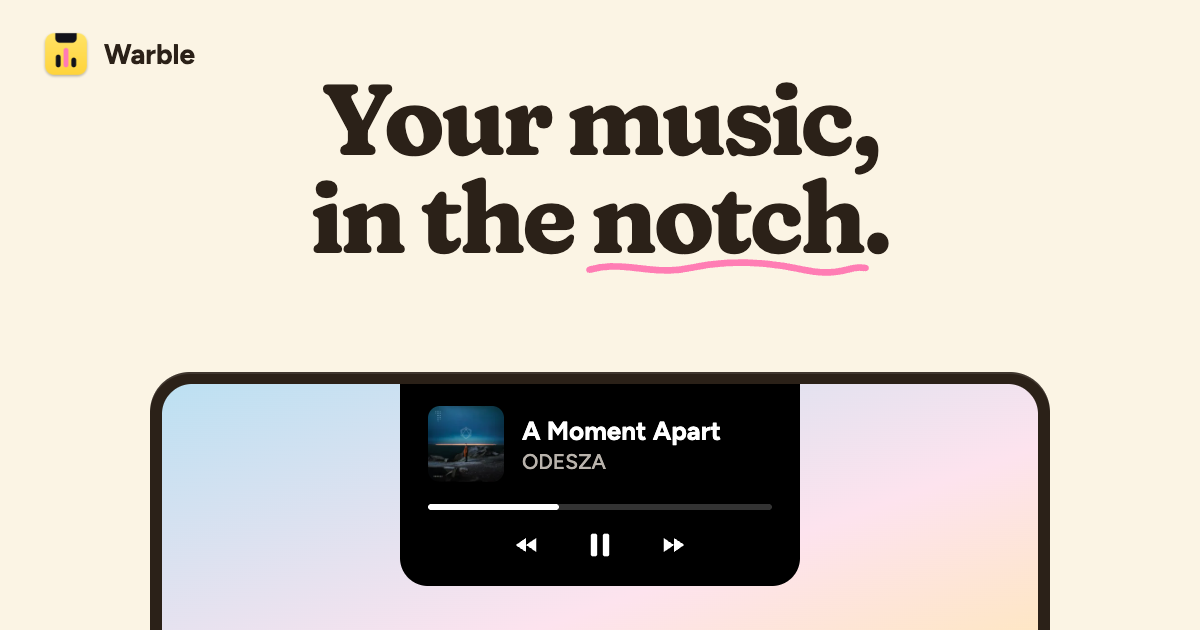
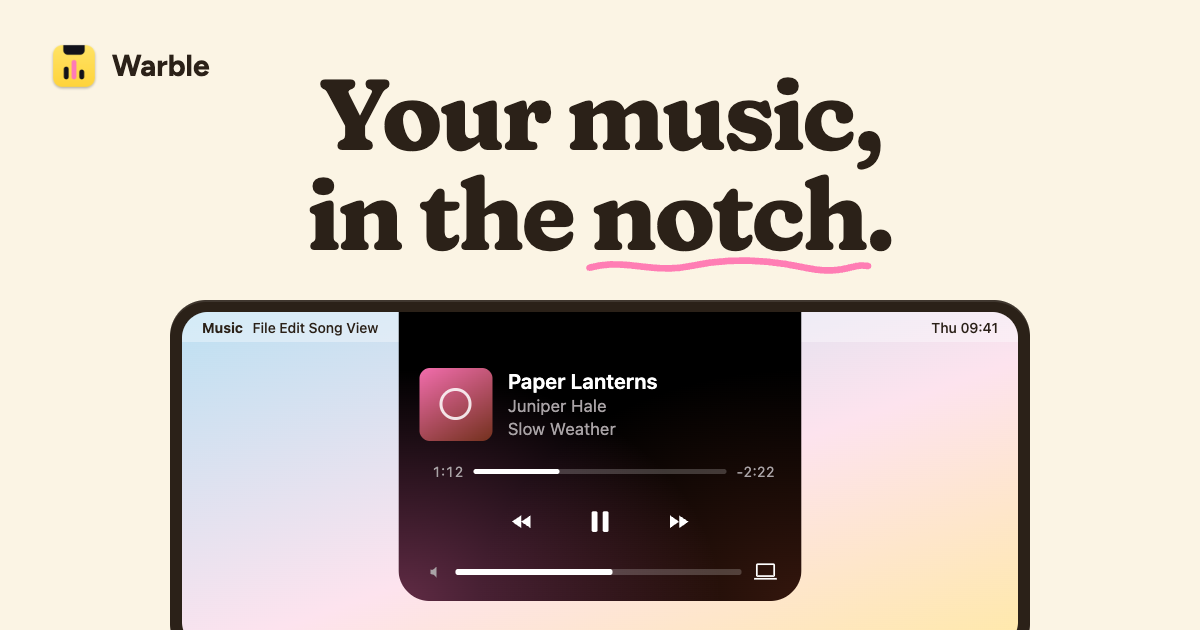
site: draw the social cards with a made-up song and a scene per page (#514)
Redraws the social cards so they show a made-up song, and gives each
page a card about that page.

## The song

The cards showed A Moment Apart by ODESZA with its real cover. They now
show Paper Lanterns by Juniper Hale, from the made-up tracks in
`docs/demo`. Its art is drawn in CSS from the same hue, gradient and
ring as `Tracks.swift`, so it matches the guide's screenshots and the
repo ships no one else's artwork. The open notch is drawn at the app's
sizes, as `NotchStill.astro` draws it, with the position bar and volume
row the app shows.

## The cards

- **Home (`og.png`):** the headline over a screen with the notch hanging
open, which now fits inside the card instead of being cut off at the
bottom.
- **Guide pages:** the title and the page's summary on the left, with a
scene for that page on the right:
  - resting notch with the pointer for Get started
  - the speaker list for Switch speakers
  - the right-click menu for More than one player
  - the drawn notch for External displays
  - Nothing playing for When nothing shows
  - the VoiceOver ring and an Esc key for Accessibility
- crops of `settings-notch.png` and `update-offer.png` for Settings and
Updates
  - the uninstall command for Remove Warble
- **Changelog, privacy and notch apps** have their own cards now,
instead of sharing the home card.

## Metadata

- The home card's alt text described the real song and is rewritten for
the new card. The three pages above pass their own card and alt text.
[…]

Changed region(s): [[0.1233, 0.1206, 0.8942, 1.0], [0.0308, 0.0302, 0.185, 0.1508]]

diff --git a/docs/architecture/website.md b/docs/architecture/website.md
@@ -2,4 +2,4 @@
 
 Read this before changing `site/` or the user guide. Back to the [architecture index](../../CLAUDE.md#architecture).
 
-`site/` is the Astro site for warble.lorcanchinnock.com, deployed by Cloudflare Workers Builds on every push to `main` (see `site/README.md` › Deploying), so it describes `main`, which can be ahead of the version people can install. The user guide lives in `site/src/guide/`, one Markdown file per page at `/docs/<slug>/`, in file name order. Each file's front matter gives its `title`, a one-line `summary` and its `group` (the groups are in `site/src/lib/guide-files.ts`). A guide page follows its board (#462): the header names the guide and holds the search (`GuideSearch.astro`, Pagefind's index, loaded on first use), which `/` focuses from anywhere and whose results drop down under it; on a phone it takes its own row. The sidebar marks each group with its colour (Get started yellow, Playback pink, Displays sky, Reference the secondary colour, Help an outline), and the page opens with its group and a read time at 200 words a minute (`GuidePage.minutes`). Numbered steps sit on yellow discs. Under On this page, on wide screens only, a black card with a notch links to the install command. Write pages as tasks, in second person: numbered steps, `<kbd>⌘⇧4</kbd>` for keys, and `> [!TIP]` or `> [!NOTE]` callouts. A screenshot of one of Warble's windows takes a title, `![alt](../../../docs/media/settings-notch.png "Caption")`, which puts it on a pastel panel with the title as its caption (`rehypeFigures` in `site/src/lib/guide.ts`). Capture the window at 2× with its transparent corners and no shadow (`screencapture -o -l<window id>`), since the panel draws the shadow and shows the image at half its pixel width. `/changelog/` draws `CHANGELOG.md` as a timeline from its board (#461). `site/src/lib/changelog.ts`, ported from Shot's, parses release-please's file as it is: each release's version and date, its entries as New (features), Fix (bug fixes), Faster or Changed, the commit scope as an area tag in words, and the PR number; `ChangelogRelease.astro` draws one release. The newest eight show, the rest wait behind Show older releases, and Everything, New and Fixes are radio buttons filtered with CSS `:has()`, so the page needs no script. The feed reads the same parser. The landing page's `#install` panel holds the install command, and `/notch-apps/` links to it, so keep that anchor. The steps to open a downloaded zip past Gatekeeper are the FAQ's `#gatekeeper` answer; the install panel links to it, and a short script opens a FAQ answer that a link targets. The command is `site/public/install.sh`, with `site/public/uninstall.sh` beside it, both served as plain text and tested by `make test-install test-uninstall`; keep the commands in the README, the landing page and the guide in line with them. release-please ignores `site/`. The site's look is Warble's own, not Shot's: warm and a little playful, with a cream page, cocoa text, the icon's yellow and pink, a soft serif (Fraunces) for headings, Figtree for text and DM Mono for commands and keys. The notch is the one pure-black thing, as in the app. Light and dark follow the system, and dark is the same palette at night. The fonts come from `@fontsource` packages and are served from the site itself, because the Content-Security-Policy allows only `'self'` and the site makes no third-party requests. The tokens are at the top of `site/src/styles/global.css`. The social card, `site/public/og.png`, is drawn in the same look by `npm run og` (`site/scripts/og.mjs`, which renders HTML with headless Chrome), so rerun it when the headline, the palette or the notch's look changes. It also draws one card per guide page into `site/public/og/<slug>.png`, from each page's title and group, so rerun it and commit the cards when a page is added or retitled; `Base.astro` takes an `image` for a page's own card. For search and sharing, the sitemap (`sitemap.xml.ts`) lists every page with a `lastmod` from git, which it leaves out in a shallow clone, the landing page carries `SoftwareApplication` JSON-LD, the 404 is `noindex` (it shows the empty notch's "Nothing playing" note in a `ScreenCrop`, with the home page as its one action), and `/changelog/rss.xml` turns the same releases into a feed. `/notch-apps/` says what Warble does and doesn't do next to other notch apps. Keep it to claims you can check, with no prices, and update it when Warble gains or drops a feature it mentions. The landing page's notch (`NotchDemo.astro`, with `scripts/notch-demo.ts`) is a working copy hanging from the screen crop (a black bezel, the menu bar and the pastel wallpaper, fading into the page): it opens once by itself a moment after it scrolls into view, then waits for a hover, with no labels or controls around it, only ticks while it is on screen, and does not tour with Reduce motion. It plays nine real songs, the first ODESZA's "A Moment Apart", with their covers in `site/public/media/art-*.webp` and the list in `scripts/notch-demo.ts`; previous, next, shuffle, repeat, the position bar and the volume slider work on them. It draws the housing, wings and open card at the app's own proportions (`NotchLayout`), so change it when they change. It shows only the rest and open states, with no empty state and no caption, so keep them in line with the app's. The landing page follows its board on the redesign canvas (#460): the hero with the command as its one action, the working notch, then four numbered chapters, See it, Hear it, Every Mac and Calm, each with the notch in one state hanging from a `ScreenCrop`. `NotchStill.astro` draws those still notches at the app's sizes: resting, open with or without the speaker list, the note, and the notch Warble draws on a display without one. Covers come from `site/public/media/art-*.webp`. After the chapters come a privacy band, a FAQ of `details` elements, and the yellow install panel with the resting notch hanging from its top edge. Only the footer's "LC_" mark and "Made by Lorcan Chinnock", the voice and the copy button carry over from Shot. The shared parts follow the redesign spec's Website polish values (#458). `Base.astro` draws the header (the icon, the name in Fraunces and a Beta badge, then Features, Guide, Changelog, FAQ and GitHub, with the current page on a soft pill) and, under 720 px, puts the links behind a Menu button, a `details` element so it needs no script. The footer has the name and licence, then Product, Help and Project columns, then the maker's mark. `Copy.astro` and the guide's one-line `sh` blocks share one command block: a cocoa bar (`--cmd`) with a yellow `$`, the command on one line that scrolls sideways rather than wrapping, and a cream Copy button as its only action. A grid that holds one needs a `minmax(0, 1fr)` column, or the command's width stretches the page on a phone. `.squig` puts the pink squiggle under one word per heading: with `.now` it draws in once after load, as the hero's does, and otherwise it draws as its heading scrolls into view. `.rise` fades a section up 24 px as it scrolls in. The scrolling ones use CSS scroll timelines. Give `animation-timeline` and `animation-range` a rule of their own, more specific than the one with the `animation` shorthand: in the same rule the minifier folds them into the shorthand, which can't hold them, and browsers drop it. None needs a script, and all are off under Reduce Motion.
+`site/` is the Astro site for warble.lorcanchinnock.com, deployed by Cloudflare Workers Builds on every push to `main` (see `site/README.md` › Deploying), so it describes `main`, which can be ahead of the version people can install. The user guide lives in `site/src/guide/`, one Markdown file per page at `/docs/<slug>/`, in file name order. Each file's front matter gives its `title`, a one-line `summary` and its `group` (the groups are in `site/src/lib/guide-files.ts`). A guide page follows its board (#462): the header names the guide and holds the search (`GuideSearch.astro`, Pagefind's index, loaded on first use), which `/` focuses from anywhere and whose results drop down under it; on a phone it takes its own row. The sidebar marks each group with its colour (Get started yellow, Playback pink, Displays sky, Reference the secondary colour, Help an outline), and the page opens with its group and a read time at 200 words a minute (`GuidePage.minutes`). Numbered steps sit on yellow discs. Under On this page, on wide screens only, a black card with a notch links to the install command. Write pages as tasks, in second person: numbered steps, `<kbd>⌘⇧4</kbd>` for keys, and `> [!TIP]` or `> [!NOTE]` callouts. A screenshot of one of Warble's windows takes a title, `![alt](../../../docs/media/settings-notch.png "Caption")`, which puts it on a pastel panel with the title as its caption (`rehypeFigures` in `site/src/lib/guide.ts`). Capture the window at 2× with its transparent corners and no shadow (`screencapture -o -l<window id>`), since the panel draws the shadow and shows the image at half its pixel width. `/changelog/` draws `CHANGELOG.md` as a timeline from its board (#461). `site/src/lib/changelog.ts`, ported from Shot's, parses release-please's file as it is: each release's version and date, its entries as New (features), Fix (bug fixes), Faster or Changed, the commit scope as an area tag in words, and the PR number; `ChangelogRelease.astro` draws one release. The newest eight show, the rest wait behind Show older releases, and Everything, New and Fixes are radio buttons filtered with CSS `:has()`, so the page needs no script. The feed reads the same parser. The landing page's `#install` panel holds the install command, and `/notch-apps/` links to it, so keep that anchor. The steps to open a downloaded zip past Gatekeeper are the FAQ's `#gatekeeper` answer; the install panel links to it, and a short script opens a FAQ answer that a link targets. The command is `site/public/install.sh`, with `site/public/uninstall.sh` beside it, both served as plain text and tested by `make test-install test-uninstall`; keep the commands in the README, the landing page and the guide in line with them. release-please ignores `site/`. The site's look is Warble's own, not Shot's: warm and a little playful, with a cream page, cocoa text, the icon's yellow and pink, a soft serif (Fraunces) for headings, Figtree for text and DM Mono for commands and keys. The notch is the one pure-black thing, as in the app. Light and dark follow the system, and dark is the same palette at night. The fonts come from `@fontsource` packages and are served from the site itself, because the Content-Security-Policy allows only `'self'` and the site makes no third-party requests. The tokens are at the top of `site/src/styles/global.css`. The social cards are drawn in the same look by `npm run og` (`site/scripts/og.mjs`, which renders HTML with headless Chrome). The home card, `site/public/og.png`, has the headline over the open notch. Each guide page's card, `site/public/og/<slug>.png`, has its title, group and summary beside a scene for that page from `scenes` in the script, which is either a notch drawn at the app's sizes or a crop of a screenshot in `docs/media`. The changelog, privacy and notch apps pages have cards there too. Every card shows Paper Lanterns by Juniper Hale, a made-up song from `docs/demo` whose art is drawn as `Tracks.swift` draws it, never a real song. Rerun the script and commit the cards when the headline, the palette or the notch's look changes, when a guide page is added, retitled or given a new summary, or when a screenshot a card crops changes. `Base.astro` takes an `image` and `imageAlt` for a page's own card. For search and sharing, the sitemap (`sitemap.xml.ts`) lists every page with a `lastmod` from git, which it leaves out in a shallow clone, the landing page carries `SoftwareApplication` JSON-LD, the 404 is `noindex` (it shows the empty notch's "Nothing playing" note in a `ScreenCrop`, with the home page as its one action), and `/changelog/rss.xml` turns the same releases into a feed. `/notch-apps/` says what Warble does and doesn't do next to other notch apps. Keep it to claims you can check, with no prices, and update it when Warble gains or drops a feature it mentions. The landing page's notch (`NotchDemo.astro`, with `scripts/notch-demo.ts`) is a working copy hanging from the screen crop (a black bezel, the menu bar and the pastel wallpaper, fading into the page): it opens once by itself a moment after it scrolls into view, then waits for a hover, with no labels or controls around it, only ticks while it is on screen, and does not tour with Reduce motion. It plays nine real songs, the first ODESZA's "A Moment Apart", with their covers in `site/public/media/art-*.webp` and the list in `scripts/notch-demo.ts`; previous, next, shuffle, repeat, the position bar and the volume slider work on them. It draws the housing, wings and open card at the app's own proportions (`NotchLayout`), so change it when they change. It shows only the rest and open states, with no empty state and no caption, so keep them in line with the app's. The landing page follows its board on the redesign canvas (#460): the hero with the command as its one action, the working notch, then four numbered chapters, See it, Hear it, Every Mac and Calm, each with the notch in one state hanging from a `ScreenCrop`. `NotchStill.astro` draws those still notches at the app's sizes: resting, open with or without the speaker list, the note, and the notch Warble draws on a display without one. Covers come from `site/public/media/art-*.webp`. After the chapters come a privacy band, a FAQ of `details` elements, and the yellow install panel with the resting notch hanging from its top edge. Only the footer's "LC_" mark and "Made by Lorcan Chinnock", the voice and the copy button carry over from Shot. The shared parts follow the redesign spec's Website polish values (#458). `Base.astro` draws the header (the icon, the name in Fraunces and a Beta badge, then Features, Guide, Changelog, FAQ and GitHub, with the current page on a soft pill) and, under 720 px, puts the links behind a Menu button, a `details` element so it needs no script. The footer has the name and licence, then Product, Help and Project columns, then the maker's mark. `Copy.astro` and the guide's one-line `sh` blocks share one command block: a cocoa bar (`--cmd`) with a yellow `$`, the command on one line that scrolls sideways rather than wrapping, and a cream Copy button as its only action. A grid that holds one needs a `minmax(0, 1fr)` column, or the command's width stretches the page on a phone. `.squig` puts the pink squiggle under one word per heading: with `.now` it draws in once after load, as the hero's does, and otherwise it draws as its heading scrolls into view. `.rise` fades a section up 24 px as it scrolls in. The scrolling ones use CSS scroll timelines. Give `animation-timeline` and `animation-range` a rule of their own, more specific than the one with the `animation` shorthand: in the same rule the minifier folds them into the shorthand, which can't hold them, and browsers drop it. None needs a script, and all are off under Reduce Motion.
